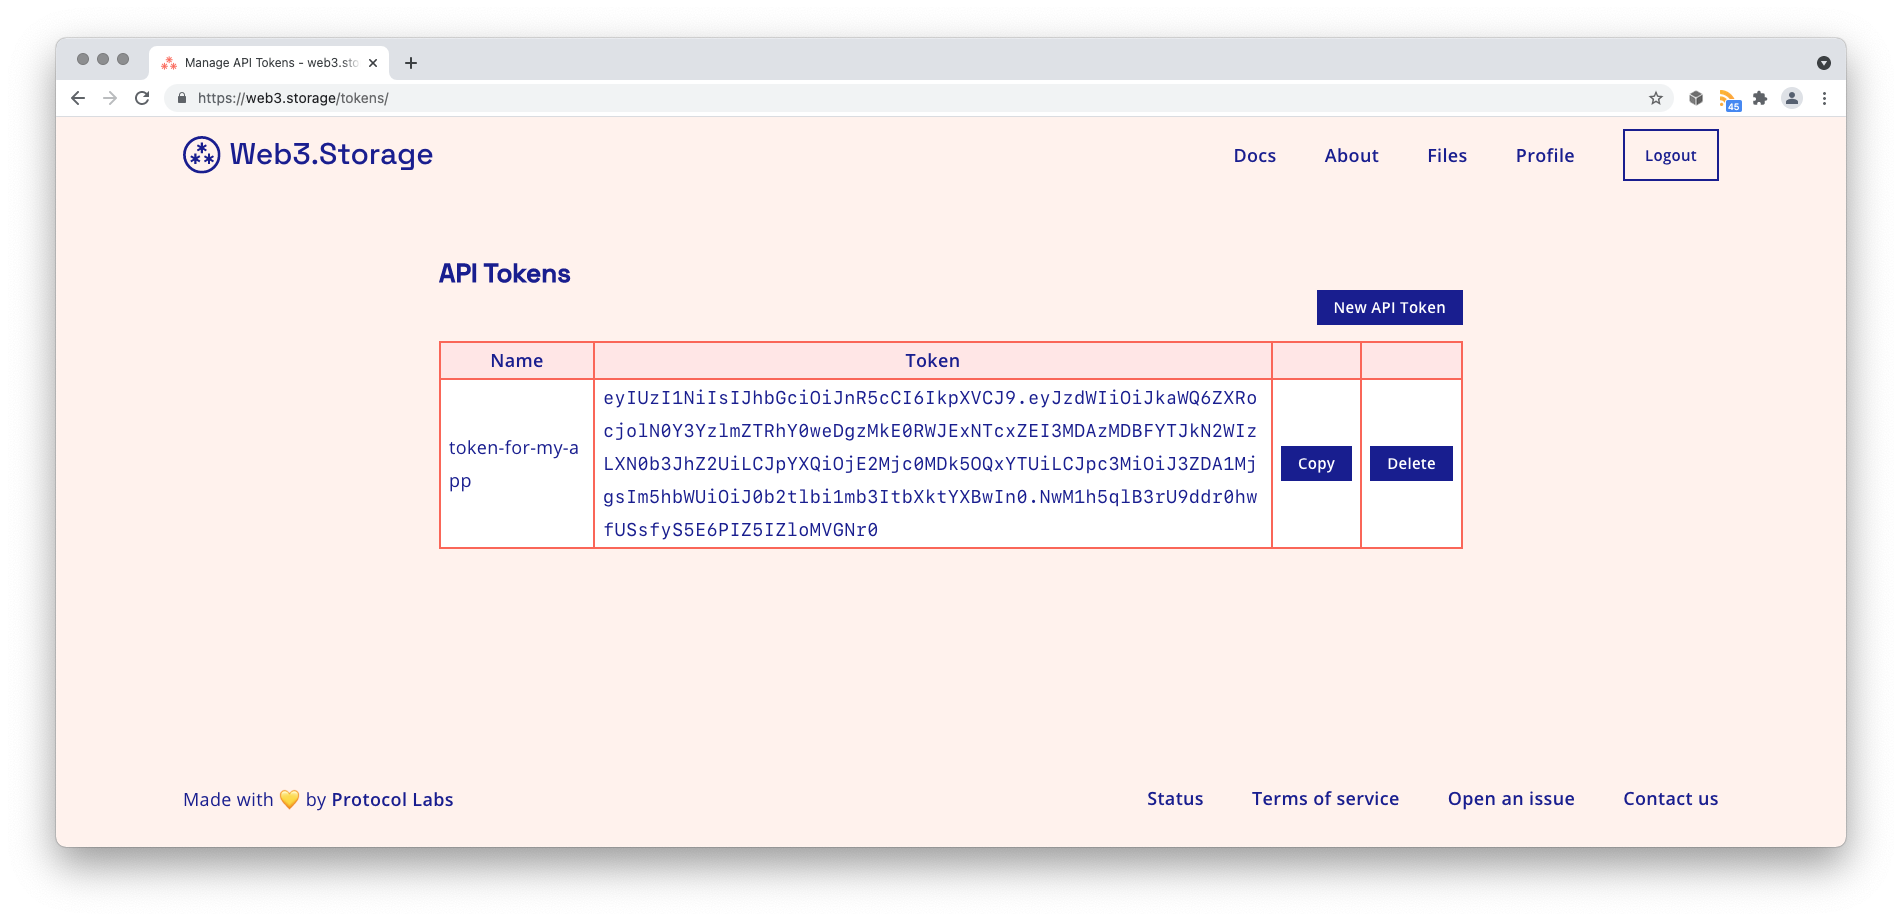
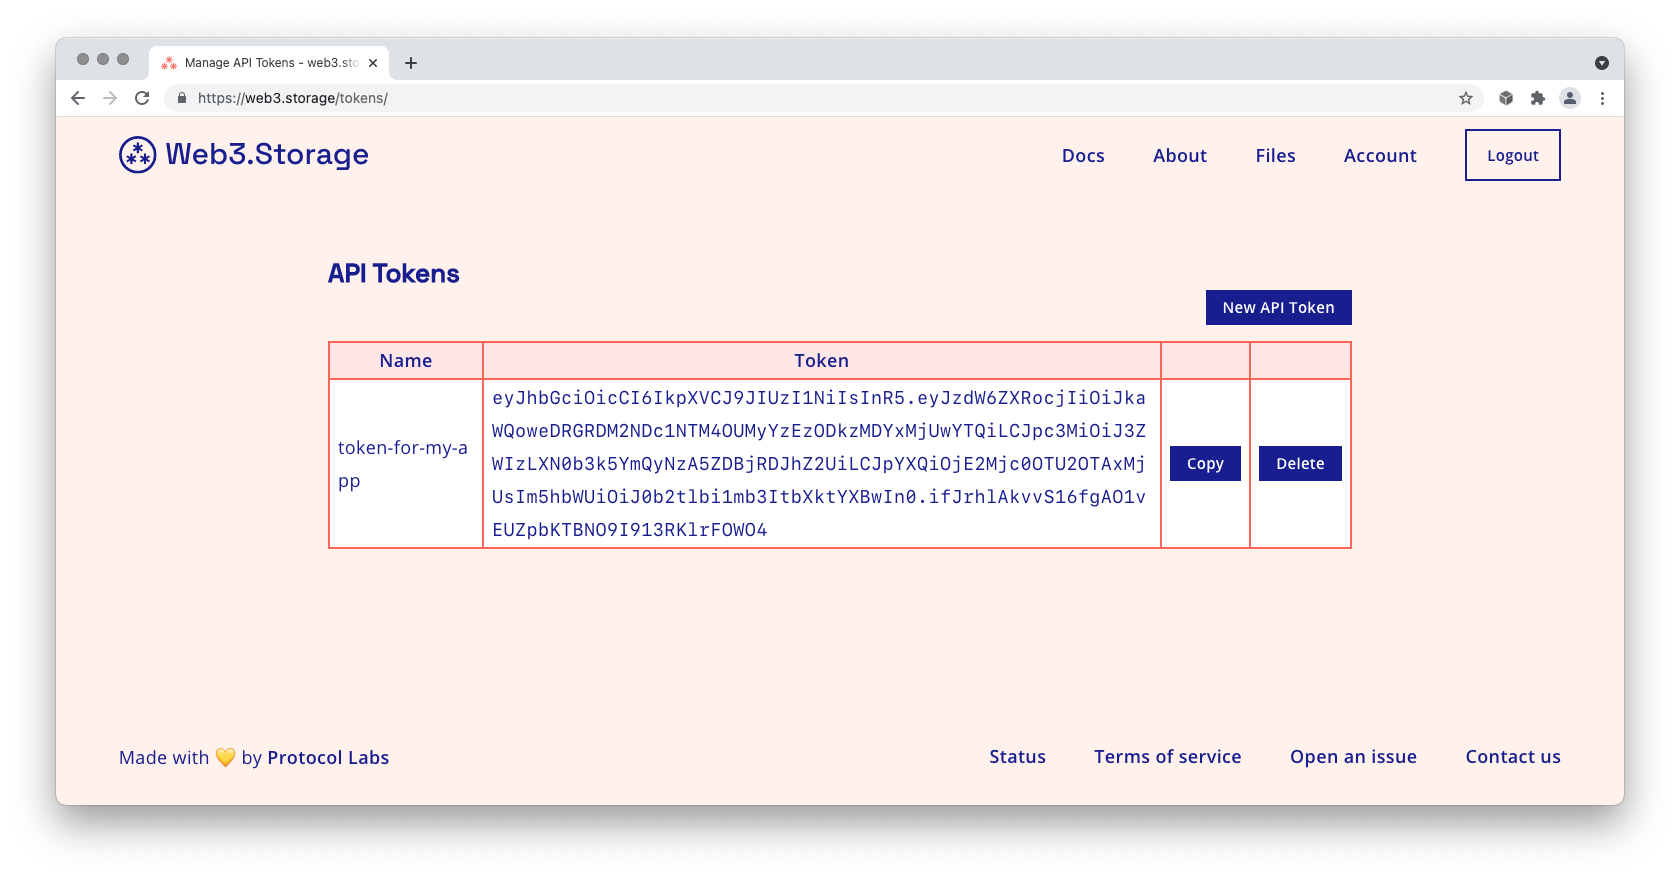
fix: replace images, rename for future Profile page

diff --git a/docs/how-tos/generate-api-token.md b/docs/how-tos/generate-api-token.md
@@ -15,11 +15,11 @@ You'll need a free Web3.Storage account in order to generate an API token. If yo
 1. From the Web3.Storage navigation menu, click **Profile** to go to your [profile page](https://web3.storage/profile).
 1. Scroll down to the **API tokens** section and click **Create an API token**. (If you've never created an API token on Web3.Storage before, you'll also see an invitation to do this from the **Getting started** section of your profile page.)
 
-![Screenshot of a Web3.Storage profile page](./images/profile-page-no-tokens.png)
+![Screenshot of a Web3.Storage profile page](./images/account-page-no-tokens.png)
 
 3. Give your new API token a descriptive name that will be easy for you to remember later.
 
-![Screenshot of a Web3.Storage page for naming a new API token](./images/profile-page-name-token.png)
+![Screenshot of a Web3.Storage page for naming a new API token](./images/account-page-name-token.png)
 
 :::tip
 You don't have to use the same API token for all of your projects! Creating an individual API token for each of your applications or services makes it easier to change or revoke access in the future to a specific project. You can have as many tokens as you need on Web3.Storage for free.
